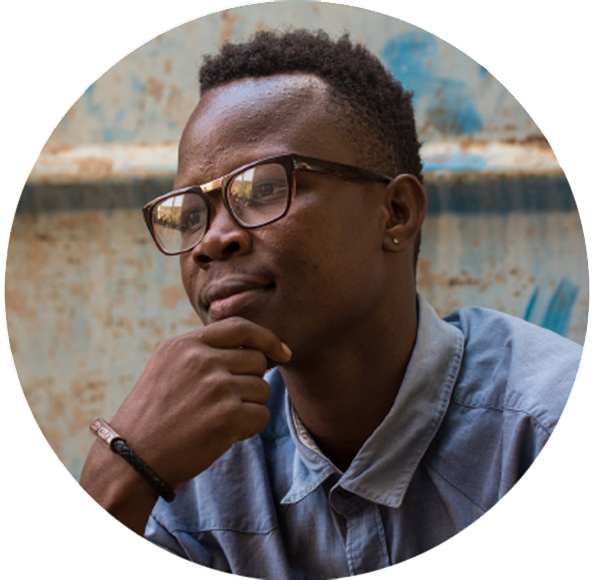
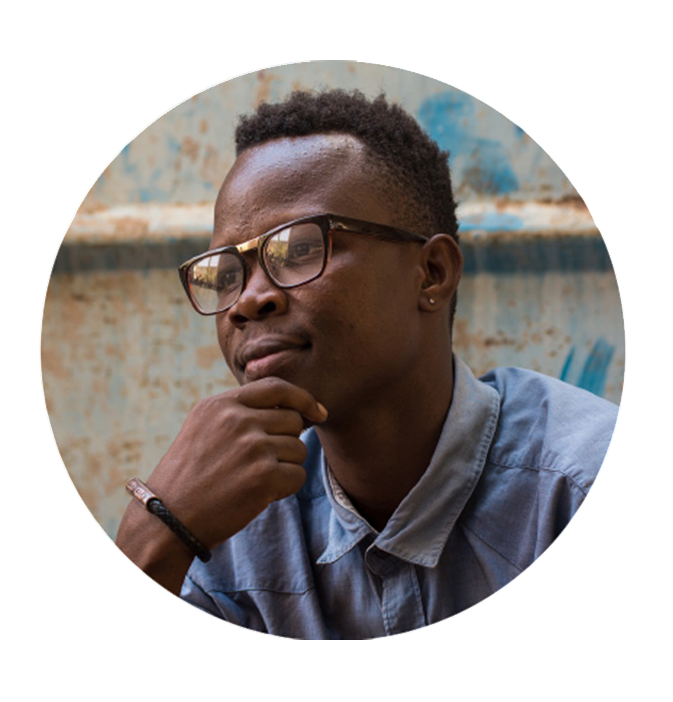
assets update

diff --git a/style.css b/style.css
@@ -93,12 +93,7 @@ h2 {
   flex-wrap: wrap;
   text-align: center;
 }
-.workers img {
-  object-fit: cover;
-  border-radius: 50%;
-  border: 2px solid rgb(255, 255, 255);
-  padding: 5px;
-}
+
 .workerimg {
   max-width: auto;
   max-height: 240px;
